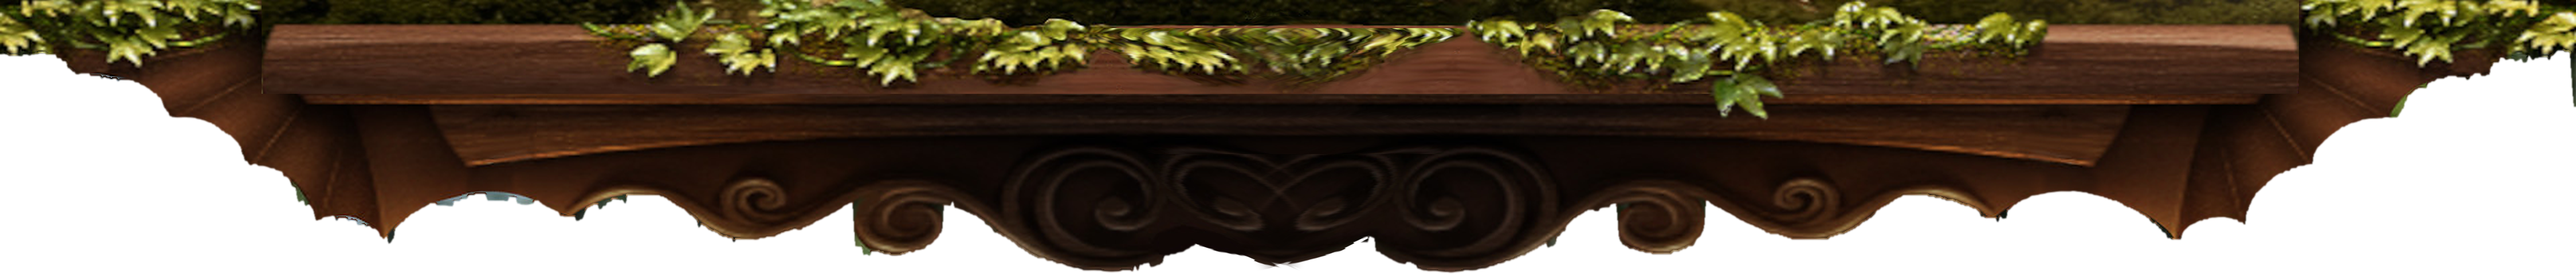
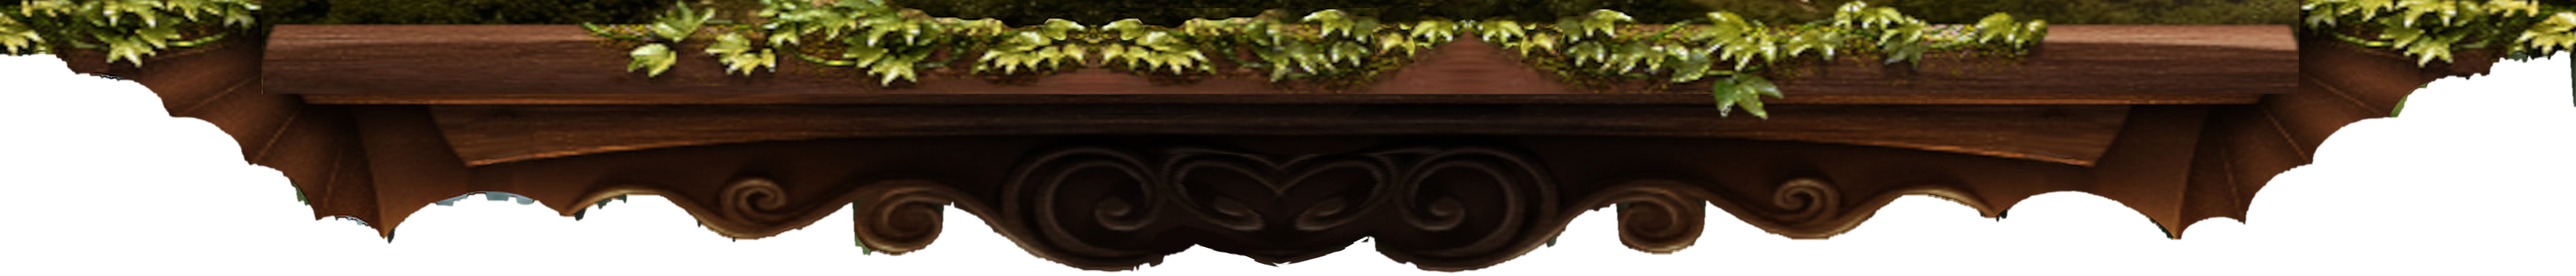
fix(tools): mirror the wood behind the crest along straight axes
Above the rail the fill behind the crest mirrors from the shield's full
width, with a narrow cross-fade. This removes ghosted ivy and a diagonal
wedge in the board, which would show if the new logo is narrower.

Changed region(s): [[0.4062, 0.0291, 0.5938, 0.3495]]

diff --git a/tools/hero-v3/build_layers.py b/tools/hero-v3/build_layers.py
@@ -144,17 +144,21 @@ def build_plank(hdr, strip, S):
     st[edge] = inner[edge]
     P = np.dstack([st, alpha])
 
-    # rebuild the wood behind the shield: mirror both neighbours inward and cross-fade
+    # rebuild the wood behind the shield: mirror both neighbours inward and cross-fade in the middle.
+    # Above the rail the mirror axes are fixed at the shield's full width, so the board grain and ivy
+    # mirror straight instead of following the diagonal shield wings.
     hole = ndi.binary_dilation(up(hole1) > 0.5, iterations=S)
+    hx = np.where(hole.any(0))[0]
+    box = (int(hx.min()), int(hx.max()))
     pre = P.copy(); pre[..., :3] *= pre[..., 3:4]
     for y in range(H):
         xr_ = np.where(hole[y])[0]
         if len(xr_) == 0:
             continue
-        xa, xb = int(xr_.min()), int(xr_.max())
+        xa, xb = (box if y < 150 * S else (int(xr_.min()), int(xr_.max())))
         x = np.arange(xa, xb + 1)
         t = (x - xa) / max(xb - xa, 1)
-        wl = 0.5 * (1 + np.cos(np.pi * np.clip((t - 0.3) / 0.4, 0, 1)))[:, None]
+        wl = 0.5 * (1 + np.cos(np.pi * np.clip((t - 0.44) / 0.12, 0, 1)))[:, None]
         pre[y, xa:xb + 1] = wl * pre[y, np.clip(2 * xa - 1 - x, 0, W - 1)] + (1 - wl) * pre[y, np.clip(2 * xb + 1 - x, 0, W - 1)]
     a = pre[..., 3:4]
     P = np.concatenate([np.where(a > 1e-4, pre[..., :3] / np.maximum(a, 1e-4), 0), a], -1)
